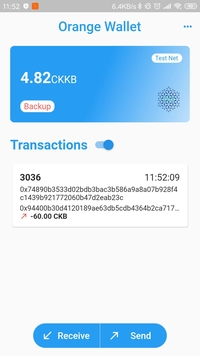
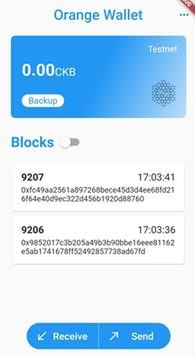
refactor: wallet card ui

Changed region(s): [[0.0, 0.0, 1.0, 0.4326], [0.0923, 0.4635, 0.9231, 0.7416], [0.1231, 0.8961, 0.8923, 0.9888]]

diff --git a/lib/pages/home_page/wallet_card/sync_progressing.dart b/lib/pages/home_page/wallet_card/sync_progressing.dart
@@ -33,7 +33,7 @@ class SyncProgressing extends StatelessWidget {
                           ? Container()
                           : Text(
                               (balanceSync.data.synced * 100).toInt().toString() + "%",
-                              style: TextStyle(color: Colors.white, fontSize: 16),
+                              style: TextStyle(color: Colors.white, fontSize: 14),
                             ),
                     ],
                   ),
@@ -44,11 +44,11 @@ class SyncProgressing extends StatelessWidget {
                       Icon(
                         Icons.refresh,
                         color: Colors.white,
-                        size: 20,
+                        size: 16,
                       ),
                       SizedBox(width: 3),
                       Text(CustomLocalizations.of(context).getString(StringIds.errorSync),
-                          style: TextStyle(color: Colors.white, fontSize: 16))
+                          style: TextStyle(color: Colors.white, fontSize: 14))
                     ],
                   ),
                   onTap: () {

diff --git a/lib/pages/home_page/wallet_card/wallet_card.dart b/lib/pages/home_page/wallet_card/wallet_card.dart
@@ -9,7 +9,7 @@ class WalletCardWidget extends StatelessWidget {
   Widget build(BuildContext context) {
     final ThemeData theme = Theme.of(context);
     return Container(
-      height: 150,
+      height: 160,
       decoration: BoxDecoration(
         gradient: LinearGradient(
             colors: [theme.primaryColor, theme.accentColor, theme.primaryColorLight],
@@ -27,13 +27,13 @@ class WalletCardWidget extends StatelessWidget {
             child: SyncProgressing(),
           ),
           Positioned(
-            top: 45,
+            top: 50,
             left: 20,
             child: BalanceWidget(),
           ),
           Positioned(
             left: 20,
-            bottom: 20,
+            bottom: 30,
             child: BackupWidget(),
           ),
           Positioned(
@@ -41,7 +41,7 @@ class WalletCardWidget extends StatelessWidget {
             bottom: 20,
             child: Image.asset(
               'images/ic_nervos.png',
-              height: 50,
+              height: 70,
             ),
           ),
           Positioned(

diff --git a/lib/pages/home_page/wallet_card/backup.dart b/lib/pages/home_page/wallet_card/backup.dart
@@ -43,14 +43,14 @@ class BackupWidget extends StatelessWidget {
                         shape: BoxShape.rectangle,
                         color: Colors.white,
                         borderRadius: BorderRadius.all(
-                          Radius.circular(10.0),
+                          Radius.circular(100.0),
                         )),
-                    padding: const EdgeInsets.fromLTRB(7, 2, 7, 2),
+                    padding: const EdgeInsets.fromLTRB(10, 0, 10, 0),
                     child: Row(
                       children: <Widget>[
                         Text(
                           CustomLocalizations.of(context).getString(StringIds.backUp),
-                          style: TextStyle(fontSize: 16, color: Colors.redAccent),
+                          style: TextStyle(fontSize: 14, color: Theme.of(context).primaryColor),
                         )
                       ],
                     ),

diff --git a/lib/pages/home_page/wallet_card/balance.dart b/lib/pages/home_page/wallet_card/balance.dart
@@ -17,10 +17,10 @@ class BalanceWidget extends StatelessWidget {
               TextSpan(children: [
                 TextSpan(
                   text: provider.data.balance.totalForDisplay.balance,
-                  style: TextStyle(fontWeight: FontWeight.bold, color: Colors.white, fontSize: 30),
+                  style: TextStyle(fontWeight: FontWeight.w500, color: Colors.white, fontSize: 36),
                 ),
                 TextSpan(
-                  text: provider.data.balance.totalForDisplay.uint,
+                  text: " " + provider.data.balance.totalForDisplay.uint,
                   style: TextStyle(
                     color: Colors.white,
                     fontSize: 20,

diff --git a/lib/pages/home_page/wallet_card/net_type_button.dart b/lib/pages/home_page/wallet_card/net_type_button.dart
@@ -8,7 +8,7 @@ class NetTypeWidget extends StatelessWidget {
     return Container(
       child: Text(
         CustomLocalizations.of(context).getString(StringIds.testNet),
-        style: TextStyle(fontSize: 16, color: Colors.white),
+        style: TextStyle(fontSize: 22, color: Colors.white),
       ),
     );
   }
